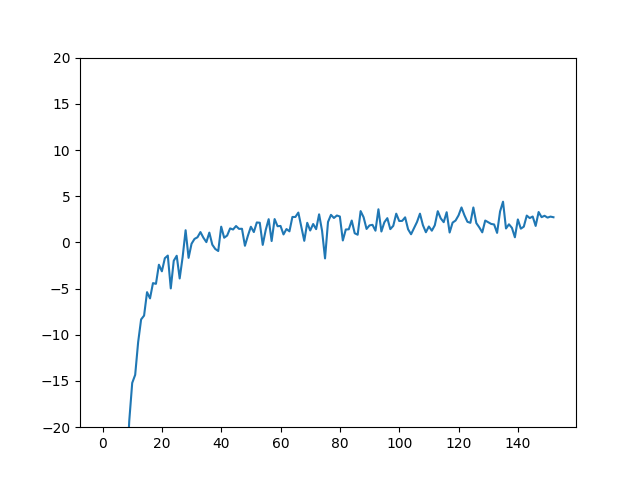
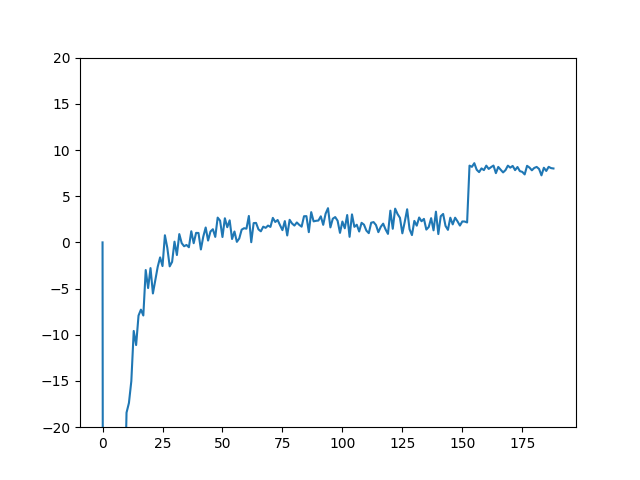
q

diff --git a/RLAlgs.py b/RLAlgs.py
@@ -30,7 +30,7 @@ def QLearning(initState=None, iterN=100000, env=None, model=None,
     sims = 0
     backups = 0
     rewards = np.zeros(iterN)
-    rewardsAvg = []
+    rewardsAvg = [0]
     avg = -1000
 
     for e in range(iterN):
@@ -85,22 +85,31 @@ def QLearning(initState=None, iterN=100000, env=None, model=None,
                 diff = abs(avg - prev)
                 if diff < convThresh and avg > 0:
                     print("reward difference " + str(diff))
-                    return model, sims, backups, e, avg, rewards[:e+1], np.array(rewardsAvg)
-
-    avg = np.mean(rewards[e - convN + 1:])
+                    if eps != 0:
+                        print("training no eps")
+                        eps = 0
+                    else:
+                        return model, sims, backups, e, avg, rewards[:e+1], np.array(rewardsAvg)
+    if convN != -1:
+        avg = np.mean(rewards[e - convN + 1:])
     rewardsAvg.append(avg)
     return model, sims, backups, e, avg, rewards, np.array(rewardsAvg)
 
 
 class QTabular:
-    def __init__(self, env):
+    def __init__(self, env, stochasticPolicy=False):
         self.NS = env.observation_space.n
         self.NA = env.action_space.n
         self.q_tab = np.zeros([self.NS, self.NA])
         self.q_tab_old = np.zeros([self.NS, self.NA])
+        self.stoch = stochasticPolicy
 
     def policy(self, state):
-        return np.argmax(self.q_tab[state])
+        if self.stoch:
+            qV = softmax(self.q_tab[state])
+            return np.random.choice(range(self.NA), 1, p=qV)[0]
+        else:
+            return np.argmax(self.q_tab[state])
 
     def backup(self, state, act, nextS, r, a=0.1, y=0.6):
         q = self.q_tab[state, act]
@@ -115,20 +124,43 @@ def cartPoleFeature(state, action, NF, NA):
 
 
 class QLinAprox:
-    def __init__(self, env, featureEx):
+    def __init__(self, env, featureEx, stochasticPolicy=False):
         ex = env.observation_space.high
 
         self.NF = ex.shape[0]
         self.NA = env.action_space.n
         self.feat = featureEx
+        self.stoch = stochasticPolicy
 
         self.w = np.zeros([self.NA, self.NF])
 
     def policy(self, state):
         qV = np.zeros(self.NA)
         for act in range(self.NA):
-            qV = np.sum(self.feat(state, act, self.NF, self.NA) * self.w[act])
-        return np.argmax(qV)
+            qV[act] = np.sum(self.feat(state, act, self.NF, self.NA) * self.w[act])
+        if self.stoch:
+            qV = softmax(qV)
+            return np.random.choice(range(self.NA), 1, p=qV)[0]
+        else:
+            return np.argmax(qV)
 
     def backup(self, state, act, nextS, r, a=0.1, y=0.6):
         self.w[act] = self.w[act] + a * r * self.feat(state, act, self.NF, self.NA)
+
+
+class RandomPolicy:
+    def __init__(self, env):
+        self.space = env.action_space
+        self.w = None
+
+    def policy(self, state):
+        return self.space.sample()
+
+    def backup(self, state, act, nextS, r, a=0.1, y=0.6):
+        return
+
+
+def softmax(x):
+    x = np.exp(x - np.max(x))
+    return x / np.sum(x)
+

diff --git a/test.py b/test.py
@@ -10,7 +10,7 @@ import RLAlgs
 def taxiTest():
     env = gym.make("Taxi-v3").env
     print('NS:' + str(env.observation_space.n) + ' NA:' + str(env.action_space.n))
-    model = RLAlgs.QTabular(env)
+    model = RLAlgs.QTabular(env, stochasticPolicy=False)
     model, sims, backups, episodes, avgR, rList, rewardsAvg = RLAlgs.QLearning(env=env, model=model, eps=0.1,
                                                             a=0.1, y=0.6, convN=100, convThresh=0.01)
     print("simulation steps " + str(sims))
@@ -26,8 +26,9 @@ def taxiTest():
 
 def cartTest():
     env = gym.make("CartPole-v1").env
-    model = RLAlgs.QLinAprox(env, RLAlgs.cartPoleFeature)
-    model, sims, backups, episodes, avgR, rList, rewardsAvg = RLAlgs.QLearning(env=env, model=model, iterN=1000, eps=0.1,
+    model = RLAlgs.QLinAprox(env, RLAlgs.cartPoleFeature, stochasticPolicy=True)
+    # model = RLAlgs.RandomPolicy(env)
+    model, sims, backups, episodes, avgR, rList, rewardsAvg = RLAlgs.QLearning(env=env, model=model, iterN=1000, eps=0,
                                                                                a=0.01, y=0.6, convN=-1, convThresh=0.01)
 
     print("train rewards")
